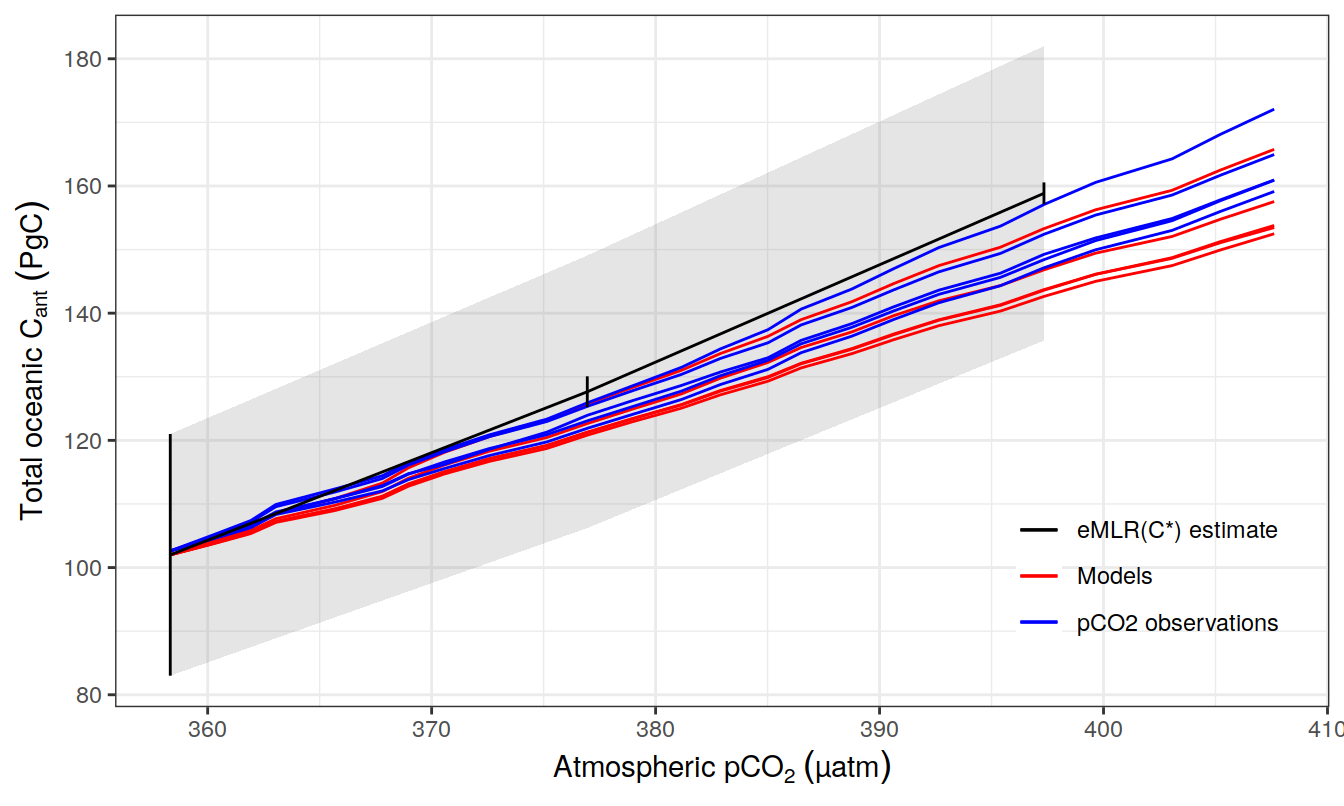
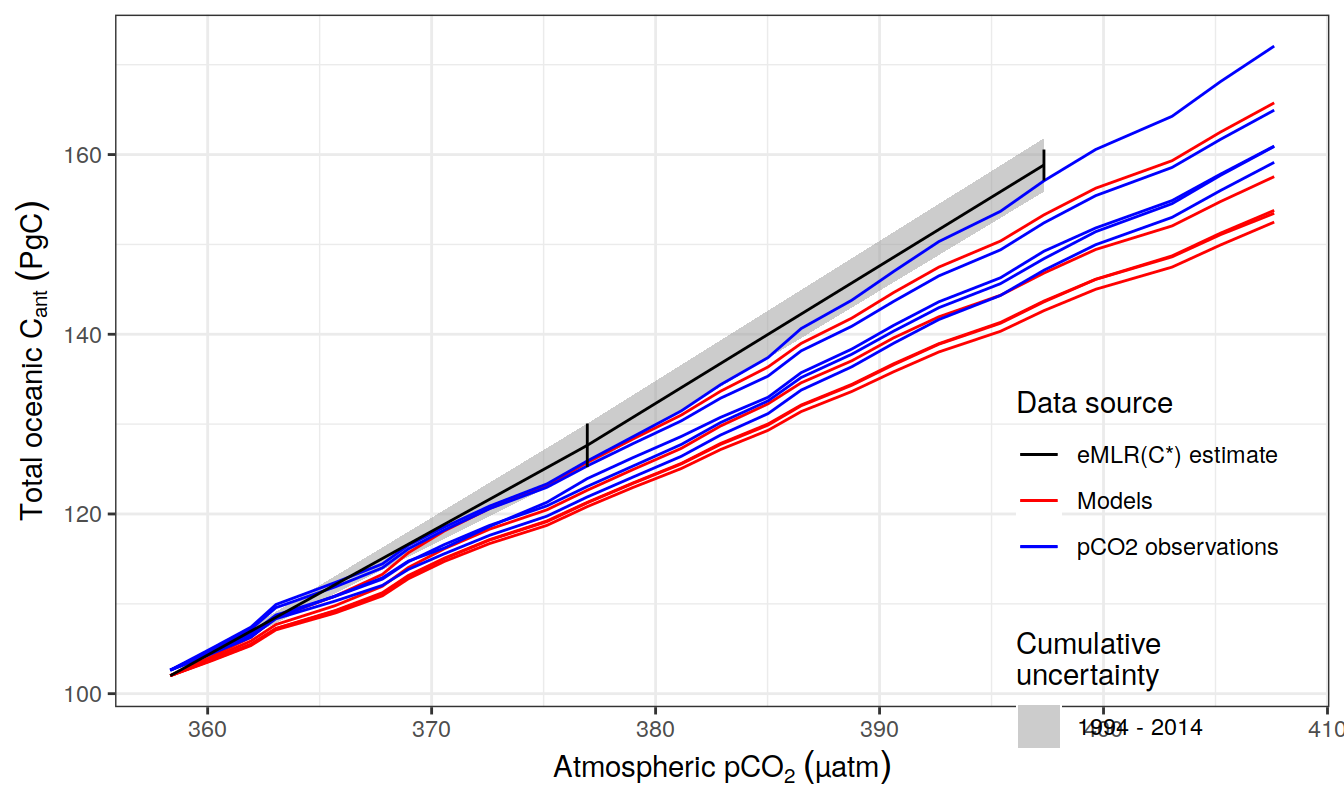
Build site.

diff --git a/docs/results_publication.html b/docs/results_publication.html
@@ -673,16 +673,16 @@ This reproducible <a href="https://rmarkdown.rstudio.com">R Markdown</a> analysi
 <div class="panel panel-default">
 <div class="panel-heading">
 <p class="panel-title">
-<a data-toggle="collapse" data-parent="#workflowr-checks" href="#strongRepositoryversionstrongahrefhttpsgithubcomjensdanielmuelleremlrobsanalysistree6afd7b1cd820473a02e2bf3b345e03d2ffa11e44targetblank6afd7b1a"> <span class="glyphicon glyphicon-ok text-success" aria-hidden="true"></span> <strong>Repository version:</strong> <a href="https://github.com/jens-daniel-mueller/emlr_obs_analysis/tree/6afd7b1cd820473a02e2bf3b345e03d2ffa11e44" target="_blank">6afd7b1</a> </a>
+<a data-toggle="collapse" data-parent="#workflowr-checks" href="#strongRepositoryversionstrongahrefhttpsgithubcomjensdanielmuelleremlrobsanalysistree73efef824c6565bcce275b748874843aa5717da9targetblank73efef8a"> <span class="glyphicon glyphicon-ok text-success" aria-hidden="true"></span> <strong>Repository version:</strong> <a href="https://github.com/jens-daniel-mueller/emlr_obs_analysis/tree/73efef824c6565bcce275b748874843aa5717da9" target="_blank">73efef8</a> </a>
 </p>
 </div>
[2 lines of base64/hex data omitted]
 <div class="panel-body">
 <p>
 Great! You are using Git for version control. Tracking code development and connecting the code version to the results is critical for reproducibility.
 </p>
 <p>
-The results in this page were generated with repository version <a href="https://github.com/jens-daniel-mueller/emlr_obs_analysis/tree/6afd7b1cd820473a02e2bf3b345e03d2ffa11e44" target="_blank">6afd7b1</a>. See the <em>Past versions</em> tab to see a history of the changes made to the R Markdown and HTML files.
+The results in this page were generated with repository version <a href="https://github.com/jens-daniel-mueller/emlr_obs_analysis/tree/73efef824c6565bcce275b748874843aa5717da9" target="_blank">73efef8</a>. See the <em>Past versions</em> tab to see a history of the changes made to the R Markdown and HTML files.
 </p>
 <p>
 Note that you need to be careful to ensure that all relevant files for the analysis have been committed to Git prior to generating the results (you can use <code>wflow_publish</code> or <code>wflow_git_commit</code>). workflowr only checks the R Markdown file, but you know if there are other scripts or data files that it depends on. Below is the status of the Git repository when the results were generated:
@@ -732,6 +732,40 @@ Message
 </tr>
 </thead>
 <tbody>
+<tr>
+<td>
+Rmd
+</td>
+<td>
+<a href="https://github.com/jens-daniel-mueller/emlr_obs_analysis/blob/73efef824c6565bcce275b748874843aa5717da9/analysis/results_publication.Rmd" target="_blank">73efef8</a>
+</td>
+<td>
+jens-daniel-mueller
+</td>
+<td>
+2022-02-04
+</td>
+<td>
+atm co2 time series plotted, uncertainties revised
+</td>
+</tr>
+<tr>
+<td>
+html
+</td>
+<td>
+<a href="https://rawcdn.githack.com/jens-daniel-mueller/emlr_obs_analysis/4b4847564b03542797d0e3402fbc283a5da6f20f/docs/results_publication.html" target="_blank">4b48475</a>
+</td>
+<td>
+jens-daniel-mueller
+</td>
+<td>
+2022-02-04
+</td>
+<td>
+Build site.
+</td>
+</tr>
 <tr>
 <td>
 Rmd
@@ -2932,7 +2966,12 @@ GLODAP_grid_era_all &lt;- full_join(GLODAP_grid_era_all,
 <pre class="r"><code>co2_atm &lt;-
   read_csv(paste(path_preprocessing,
                  &quot;co2_atm.csv&quot;,
-                 sep = &quot;&quot;))</code></pre>
+                 sep = &quot;&quot;))
+
+co2_atm_reccap2 &lt;-
+  read_csv(paste(path_preprocessing,
+                  &quot;co2_atm_reccap2.csv&quot;,
+                  sep = &quot;&quot;))</code></pre>
 </div>
 <div id="sabine-total-cant" class="section level2" number="2.8">
 <h2><span class="header-section-number">2.8</span> Sabine total Cant</h2>
@@ -6421,6 +6460,17 @@ Date
 <tbody>
 <tr>
 <td>
+<a href="https://github.com/jens-daniel-mueller/emlr_obs_analysis/blob/4b4847564b03542797d0e3402fbc283a5da6f20f/docs/figure/results_publication.Rmd/budgets_basins_hemisphere_alluvial_order_basin_scaled_incl_sabine_uncertainty-1.png" target="_blank">4b48475</a>
+</td>
+<td>
+jens-daniel-mueller
+</td>
+<td>
+2022-02-04
+</td>
+</tr>
+<tr>
+<td>
 <a href="https://github.com/jens-daniel-mueller/emlr_obs_analysis/blob/fec5a1e407002c9982784a2d26fa59121b340bf8/docs/figure/results_publication.Rmd/budgets_basins_hemisphere_alluvial_order_basin_scaled_incl_sabine_uncertainty-1.png" target="_blank">fec5a1e</a>
 </td>
 <td>
@@ -6987,24 +7037,71 @@ tcant_ts &lt;- tcant_ts %&gt;%
   mutate(tcant = cumsum(dcant_mean),
          tcant_sd = cumsum(dcant_sd))
 
+beta &lt;- 1.32
+co2_atm_pi_value &lt;- 277
+tCant_col &lt;- &quot;red&quot;
+
+tcant_ts %&gt;%
+  ggplot(aes(year, (tcant / beta + co2_atm_pi_value))) +
+  # geom_hline(yintercept = co2_atm_pi_value, col=tCant_col) +
+  geom_line(data = co2_atm_reccap2 %&gt;% filter(year &gt; 1740),
+            aes(year, pCO2)) +
+  geom_point(fill = tCant_col, shape = 21, size = 5) +
+  geom_text(aes(label = year), nudge_x = -10, nudge_y = 3) +
+  scale_y_continuous(name = expression(Atm. ~ pCO[2] ~ (µatm)),
+                     sec.axis = sec_axis(~ (. - 278) * beta,
+                                         name = expression(Total ~ oceanic ~ C[ant] ~ (PgC)))) +
+  scale_x_continuous(name = &quot;Year&quot;, breaks = seq(1750, 2000, 50)) +
+  theme(
+    axis.title.y.right = element_text(color = tCant_col),
+    axis.text.y.right = element_text(color = tCant_col)
+  )</code></pre>
+<p><img src="figure/results_publication.Rmd/mean_tcant_over_time-1.png" width="672" style="display: block; margin: auto;" /></p>
+<pre class="r"><code># ggsave(path = &quot;output/publication&quot;,
+#        filename = &quot;Fig_global_dcant_budget_vs_atm_pCO2.png&quot;,
+#        height = 4,
+#        width = 7)</code></pre>
+<pre class="r"><code>dcant_uncert_2004 &lt;- tcant_ts %&gt;%
+  filter(year %in% c(1994, 2004)) %&gt;% 
+  mutate(dcant_sd = if_else(year == 1994, 0, dcant_sd),
+         period = &quot;1994 - 2004&quot;)
+
+dcant_uncert_2014 &lt;- tcant_ts %&gt;%
+  filter(year %in% c(2004, 2014)) %&gt;% 
+  mutate(dcant_sd = if_else(year == 2004, 0, dcant_sd),
+         period = &quot;2004 - 2014&quot;)
+
+dcant_uncert_ind &lt;- bind_rows(
+  dcant_uncert_2004,
+  dcant_uncert_2014
+)
+
+dcant_uncert_2014_combined &lt;-
+  tcant_ts %&gt;%
+  filter(year %in% c(1994, 2004, 2014)) %&gt;% 
+  mutate(dcant_sd = if_else(year == 1994, 0, dcant_sd),
+         dcant_sd_combined = sqrt(dcant_sd^2 + lag(dcant_sd, default = 0)^2),
+         period = &quot;1994 - 2014&quot;)
 
 tcant_ts %&gt;% 
   ggplot(aes(pCO2, tcant)) +
-  geom_ribbon(aes(ymin = tcant - tcant_sd, ymax = tcant + tcant_sd, fill = &quot;cummulative\nuncertainty&quot;),
-              alpha = 0.2) +
+  geom_ribbon(aes(ymin = tcant - tcant_sd, ymax = tcant + tcant_sd, fill = &quot;1750 - 2014&quot;),
+              alpha = 0.5) +
+  geom_ribbon(data = dcant_uncert_2014_combined,
+              aes(ymin = tcant - dcant_sd_combined, ymax = tcant + dcant_sd_combined, fill = &quot;1994 - 2014&quot;),
+              alpha = 0.5) +
   geom_linerange(aes(ymin = tcant - dcant_sd, ymax = tcant + dcant_sd, col = &quot;interval\nuncertainty&quot;)) +
   geom_line() +
   scale_x_continuous(breaks = seq(280, 400, 30)
                      # sec.axis = dup_axis(labels =  c(1750, 1940, 1980, 2000, 2015),
                      #                     name = &quot;Year&quot;)
                      ) +
-  scale_fill_grey() +
-  scale_color_manual(values = &quot;black&quot;) +
+  scale_fill_manual(values = c(&quot;grey60&quot;, &quot;grey30&quot;), name = &quot;Cumulative\nuncertainty&quot;) +
+  scale_color_manual(values = &quot;black&quot;, name = &quot;&quot;) +
   geom_text(aes(label = year), nudge_x = -6, nudge_y = 5) +
   labs(x = expression(Atmospheric~pCO[2]~(µatm)),
        y = expression(Total~oceanic~C[ant]~(PgC))) +
-  theme(legend.title = element_blank(),
-        legend.background = element_rect(fill = &quot;transparent&quot;),
+  theme(legend.background = element_rect(fill = &quot;transparent&quot;),
         legend.position=c(0.85, 0.2))</code></pre>
 <p><img src="figure/results_publication.Rmd/mean_tcant_over_atm_co2-1.png" width="672" style="display: block; margin: auto;" /></p>
 <p>
@@ -7288,25 +7385,35 @@ RECCAP2_fgco2_glob_all_annual_cum_1994_mod &lt;- RECCAP2_fgco2_glob_all_annual_c
 
 
 tcant_ts &lt;- tcant_ts %&gt;%
-    filter(year != 1750)
+  filter(year != 1750) %&gt;% 
+  mutate(dcant_sd = if_else(year == 1994,0,dcant_sd))
 
 
-tcant_ts %&gt;% 
+tcant_ts %&gt;%
   ggplot(aes(pCO2, tcant)) +
-  geom_ribbon(aes(ymin = tcant - tcant_sd, ymax = tcant + tcant_sd), fill = &quot;grey50&quot;,
-              alpha = 0.2) +
+  geom_ribbon(
+    data = dcant_uncert_2014_combined,
+    aes(
+      ymin = tcant - dcant_sd_combined,
+      ymax = tcant + dcant_sd_combined,
+      fill = &quot;1994 - 2014&quot;
+    ),
+    alpha = 0.5
+  ) +
   geom_line(data = RECCAP2_fgco2_glob_all_annual_cum_1994_mod,
-            aes(pCO2, fgco2_glob_corr_cum, group = product, col=&quot;Models&quot;)) +
+            aes(pCO2, fgco2_glob_corr_cum, group = product, col = &quot;Models&quot;)) +
   geom_line(data = RECCAP2_fgco2_glob_all_annual_cum_1994,
-            aes(pCO2, fgco2_glob_corr_cum, group = product, col=&quot;pCO2 observations&quot;)) +
+            aes(pCO2, fgco2_glob_corr_cum, group = product, col = &quot;pCO2 observations&quot;)) +
   geom_linerange(aes(ymin = tcant - dcant_sd, ymax = tcant + dcant_sd)) +
   geom_line(aes(col = &quot;eMLR(C*) estimate&quot;)) +
-  scale_color_manual(values = c(&quot;black&quot;, &quot;red&quot;, &quot;blue&quot;)) +
-  labs(x = expression(Atmospheric~pCO[2]~(µatm)),
-       y = expression(Total~oceanic~C[ant]~(PgC))) +
-  theme(legend.title = element_blank(),
-        legend.background = element_rect(fill = &quot;transparent&quot;),
-        legend.position=c(0.85, 0.2))</code></pre>
+  scale_color_manual(values = c(&quot;black&quot;, &quot;red&quot;, &quot;blue&quot;), name = &quot;Data source&quot;) +
+    scale_fill_manual(values = c(&quot;grey60&quot;, &quot;grey30&quot;), name = &quot;Cumulative\nuncertainty&quot;) +
+  labs(x = expression(Atmospheric ~ pCO[2] ~ (µatm)),
+       y = expression(Total ~ oceanic ~ C[ant] ~ (PgC))) +
+  theme(
+    legend.background = element_rect(fill = &quot;transparent&quot;),
+    legend.position = c(0.85, 0.2)
+  )</code></pre>
 <p><img src="figure/results_publication.Rmd/mean_tcant_over_atm_co2_incl_fluxes-3.png" width="672" style="display: block; margin: auto;" /></p>
 <p>
 <button type="button" class="btn btn-default btn-xs btn-workflowr btn-workflowr-fig" data-toggle="collapse" data-target="#fig-mean_tcant_over_atm_co2_incl_fluxes-3">
